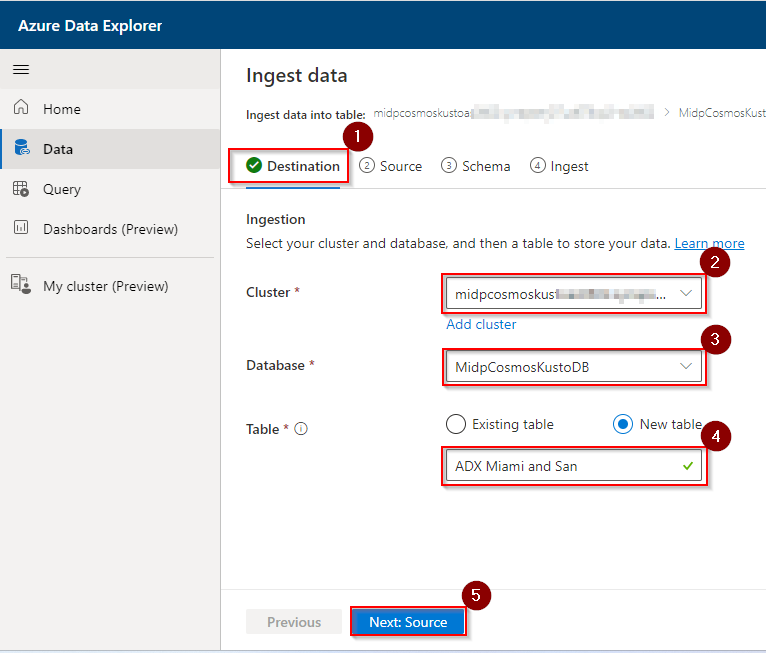
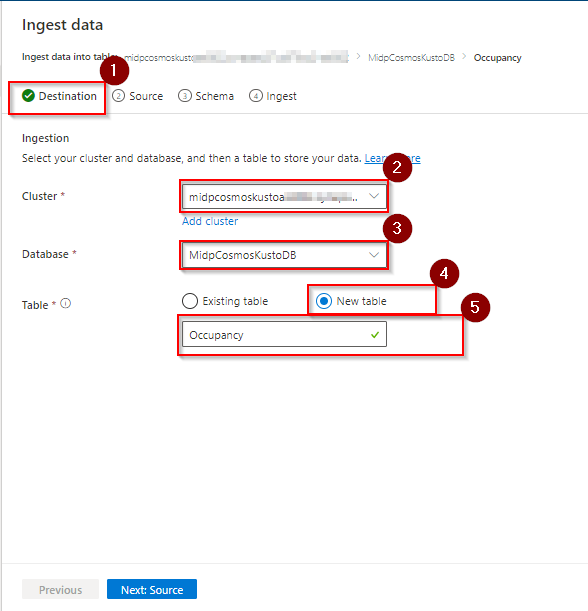
updates

diff --git a/Readme-shell.md b/Readme-shell.md
@@ -384,11 +384,11 @@ cd ./midpCosmos/midpCosmos
 
 	![Adx.](media/adx-4.png)
 	
-5. In the Ingest data, under destination tab, select appropriate values in the respective fields, in Cluster **select** the kusto pool name, in the Database select "MidpCosmosKustoDB" database, in the Table field **enter** the table name i.e. Occupancy and then **click** on Next.
+5. In the Ingest data, under destination tab, **select** appropriate values in the respective fields, in Cluster **select** the kusto pool name as "midpcosmoskust....", in the Database select "MidpCosmosKustoDB" database, in the Table field **enter** the table name i.e. Occupancy and then **click** on Next.
 
 	![Adx.](media/adx-5.png)
 	
-6. Under the source tab, **select** Source type as "Event Hub", in subscription **select** your subscription, in Event Hub Namespace **select** you eventhub namespace i.e. "ADX Miami and San-CCO realatime", in Event Hub **enter** "ADX Miami and San", in Data connection name **select** "midpDB-ADX Miami and San", in Consumer group **select** $Default. **Expand** More Parameters section and in compression **select** None and then **click** on Next.
+6. Under the source tab, **select** Source type as "Event Hub", in subscription **select** your subscription, in Event Hub Namespace **select** you eventhub namespace i.e. "adx-thermostat-occupancy-...", in Event Hub **enter** "occupancy", in Data connection name **select** "MidpCosmosKustoDB-occupancy", in Consumer group **select** $Default. **Expand** More Parameters section and in compression **select** None and then **click** on Next.
 
 	![Adx.](media/adx-6.png)
 	
@@ -400,17 +400,17 @@ cd ./midpCosmos/midpCosmos
 
 	![Adx.](media/adx-8.png)
 	
-9. Repeat the above step from 4 to 8, replacing few values, i.e. in step 5, this time **enter** the table name as "CCO Realtime", in step 6 **enter** Event Hub as "CCO Realtime" and Data connection name as "midpDB-CCO Realtime".
+9. Repeat the above step from 4 to 8, replacing few values, i.e. in step 5, this time **enter** the table name as "thermostat", in step 6 **enter** Event Hub as "thermostat" and Data connection name as "MidpCosmosKustoDB-thermostat".
 
 10. For non-historical data, open Data Explorer Studio and under data section **click** on Ingest data.
 
 	![Adx.](media/adx-4.png)
 	
-11. In the Ingest data, under destination tab, select appropriate values in the respective fields, in Cluster **select** your kusto pool name, in the Database select "midpDB" database, in the Table field **enter** the table name i.e. OccupancyHistoricalData and then **click** on Next.
+11. In the Ingest data, under destination tab, select appropriate values in the respective fields, in Cluster **select** your kusto pool name as "midpcosmoskusto...", in the Database select "MidpCosmosKustoDB" database, in the Table field **enter** the table name i.e. OccupancyHistoricalData and then **click** on Next.
 
 	![Adx.](media/adx-9.png)
 	
-12. Under the source tab, **select** Source type as "From blob container", in Ingestion type **select** One-time + Continous, in "Select source" **check** the Select container radio button, in Storage subscription **select** the appropriate subscription, in Storage account **select** the current storage account, for Container **select** "adx-historical", **expand** File Filters, under Folder path enter "occupancy" and then **click** on Next.
+12. Under the source tab, **select** Source type as "From blob container", in Ingestion type **select** One-time + Continous, in "Select source" **check** the Select container radio button, in Storage subscription **select** the appropriate subscription, in Storage account **select** the current storage account, for Container **select** "thermostat", **expand** File Filters, under Folder path enter "occupancy" and then **click** on Next.
 
 	![Adx.](media/adx-10.png)
 	
